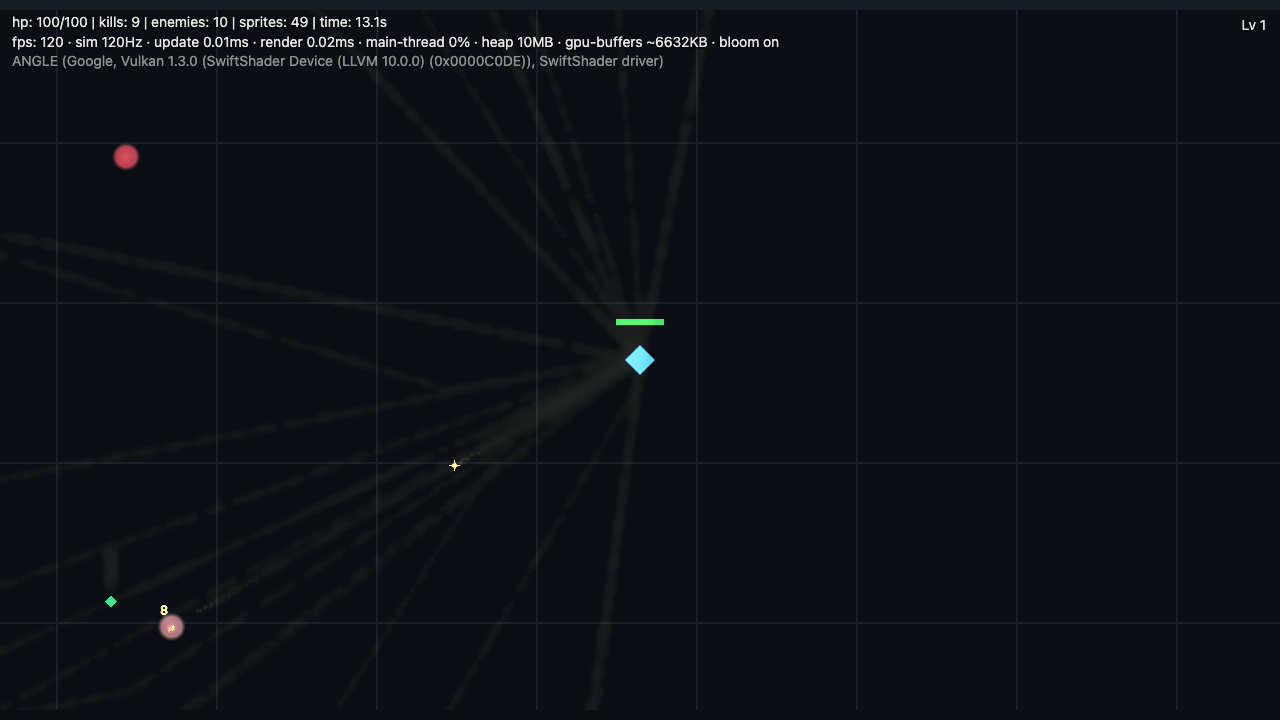
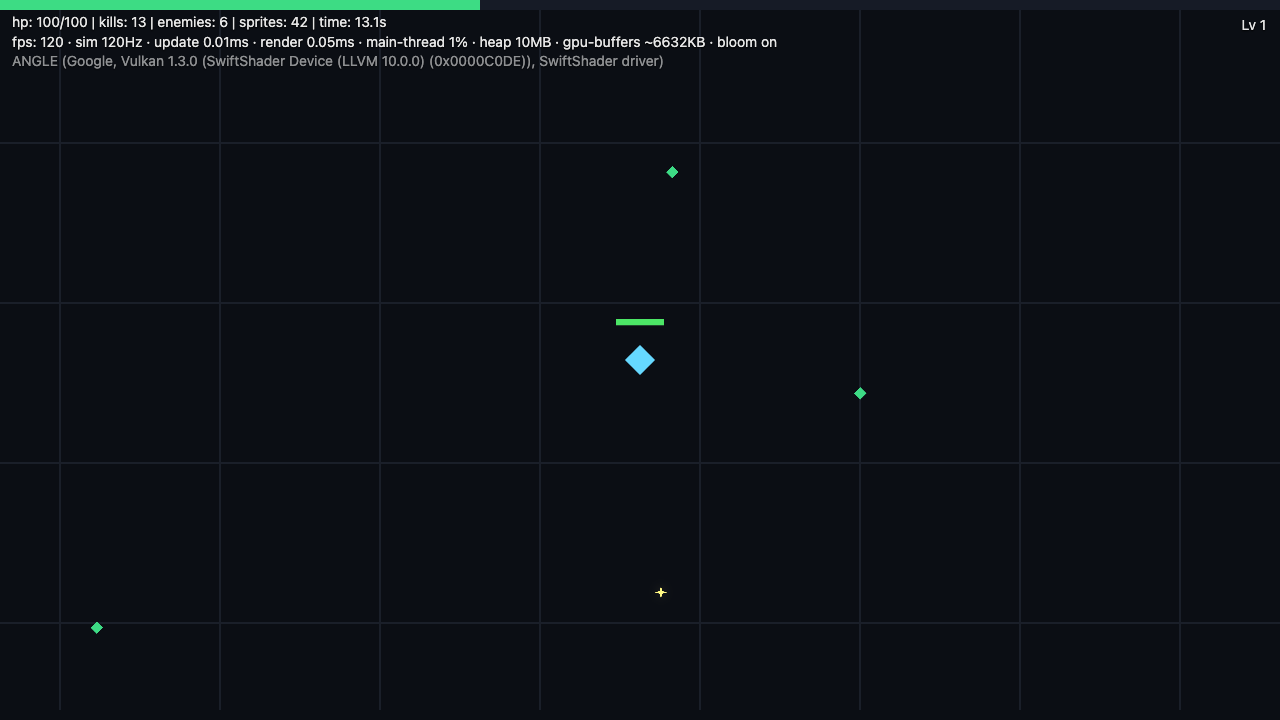
Milestone 3: fix bloom feedback accumulation, benchmark harness with naive-vs-optimized report

Changed region(s): [[0.0, 0.0, 0.5938, 0.0917], [0.125, 0.825, 0.1562, 0.8861], [0.0938, 0.1833, 0.125, 0.2444]]

diff --git a/src/engine/renderer.ts b/src/engine/renderer.ts
@@ -183,6 +183,7 @@ export class Renderer {
   private uResolution: WebGLUniformLocation;
   private uCamera: WebGLUniformLocation;
   private postVao: WebGLVertexArrayObject | null = null;
+  private postBuffer: WebGLBuffer | null = null;
   private brightProgram: WebGLProgram | null = null;
   private blurProgram: WebGLProgram | null = null;
   private compositeProgram: WebGLProgram | null = null;
@@ -271,6 +272,7 @@ export class Renderer {
       this.postVao = gl.createVertexArray()!;
       gl.bindVertexArray(this.postVao);
       const quad = gl.createBuffer()!;
+      this.postBuffer = quad;
       gl.bindBuffer(gl.ARRAY_BUFFER, quad);
       gl.bufferData(
         gl.ARRAY_BUFFER,
@@ -432,7 +434,11 @@ export class Renderer {
     const a = this.bloomA!;
     const b = this.bloomB!;
 
+    gl.disable(gl.BLEND);
+
     gl.bindVertexArray(this.postVao);
+    gl.bindBuffer(gl.ARRAY_BUFFER, this.postBuffer);
+    gl.vertexAttribPointer(0, 2, gl.FLOAT, false, 0, 0);
     gl.activeTexture(gl.TEXTURE0);
 
     gl.bindFramebuffer(gl.FRAMEBUFFER, a.fbo);
@@ -474,6 +480,7 @@ export class Renderer {
     gl.activeTexture(gl.TEXTURE0);
     gl.bindTexture(gl.TEXTURE_2D, null);
     gl.bindVertexArray(null);
+    gl.enable(gl.BLEND);
   }
 
   get spriteCount() {

diff --git a/README.md b/README.md
@@ -8,13 +8,22 @@ A Vampire Survivors-style horde survival game built with TypeScript + raw WebGL2
 
 ## Features
 
-- **Single-draw-call rendering** — all sprites (player, enemies, projectiles, grid, UI bars) batched into one `drawArraysInstanced` call via WebGL2
+- **Single-draw-call rendering** — all sprites batched into one `drawArraysInstanced` call via WebGL2
+- **Procedural texture atlas** — shapes + digit font generated at runtime; per-instance UVs and hit-flash in the shader
+- **Bloom post-processing** — bright-pass + separable gaussian blur + additive composite (FBO ping-pong)
+- **Spatial hash collision** — uniform grid neighbor queries replace O(n²) pairwise checks
+- **Object pooling** — enemies, projectiles, gems, particles, damage numbers all recycled (near-zero GC churn)
+- **Game feel** — particles, floating damage numbers, screen shake, hit-stop on elite kills
 - **Fixed 120Hz simulation** — accumulator-based timestep decoupled from render rate; identical gameplay on any display, with a live FPS counter in the HUD
-- **Escalating horde** — spawn interval decays from 0.7s to 0.07s; three enemy archetypes (crawler, runner, brute) with distinct speed/size/HP
-- **Auto-fire combat** — nearest-target bolt weapon, contact damage, HP bar, death → game over → instant retry
-- **Content-as-data** — enemies and weapons are pure JSON in `src/data/`, no engine knowledge needed to add more
-- **Zero-dependency game code** — no engine, no framework; TypeScript straight to WebGL2 (~10KB gzipped)
+- **Escalating horde** — 12-wave timeline over 10 minutes, 16 enemy types, Hive Tyrant boss at 10:00
+- **Roguelike draft** — level up → pick 1 of 3 cards: new weapon (4 mechanics: projectile/aura/orbit/nova), weapon upgrade, or stat boost
+- **Content-as-data** — enemies, weapons, waves are pure JSON in `src/data/`, no engine knowledge needed to add more
+- **Zero-dependency game code** — no engine, no framework; TypeScript straight to WebGL2 (~12KB gzipped)
 - **Live perf overlay** — fps, update/render ms, main-thread busy %, JS heap, GPU model, GPU buffer footprint. The Electron build additionally shows real CPU% and per-process RAM via `app.getAppMetrics()` (browsers don't expose true CPU/GPU/VRAM counters to web pages)
+
+## Benchmark
+
+`npm run benchmark` stress-tests naive (per-sprite draw calls, O(n²) collision) vs optimized (instancing, spatial hash, pooling) at 500–10,000 enemies and writes `docs/benchmark.md`. The `naive-renderer` branch preserves the pre-optimization code for the grading comparison.
 
 ## Screenshots
 
@@ -92,11 +101,14 @@ The codebase is split so each member owns a separable area:
 - [x] Game loop, input, camera-follow, basic enemy spawning/seeking
 - [x] Auto-firing weapons driven by `src/data/weapons.json`
 - [x] HUD + menus
-- [ ] Spatial hash grid for collision (naive O(n²) dies ~1k enemies — this is the CG talking point)
+- [x] Spatial hash grid for collision
 - [x] Multiple simultaneous weapons + upgrades
 - [x] XP gems, leveling, 3-card upgrade draft
-- [ ] Particle system + damage numbers
+- [x] Particle system + damage numbers
 - [x] One boss wave at 10 minutes
+- [x] Bloom post-processing + benchmark harness (`docs/benchmark.md`)
+- [ ] Sound effects + music
+- [ ] Title/pause polish, game-over stats screen
 
 **Explicitly out of scope:** meta-progression saves, multiple stages/characters, online anything.
 

diff --git a/TODO.md b/TODO.md
@@ -24,15 +24,15 @@ Status: `todo` → `doing` → `done`. Owner key: **M1** engine core, **M2** con
 
 ## Milestone 3 — CG showcase (the grading material)
 
-- [ ] Spatial hash grid collision (replaces naive O(n²)) (M1)
-- [ ] Object pooling for enemies/projectiles/particles (M1)
-- [ ] Sprite atlas + textured quads (replace colored squares) (M1)
-- [ ] Particle system: hit sparks, death bursts, level-up flash (M3)
-- [ ] Damage numbers + hit flashes (M3)
-- [ ] Screen shake + hit-stop on big kills (M3)
-- [ ] Post-processing: bloom/glow pass (M1)
-- [ ] `naive-renderer` branch preserved for before/after benchmark (M1)
-- [ ] Frame-time benchmark: naive vs instanced+spatial-hash, graph for report (M1)
+- [x] Spatial hash grid collision (replaces naive O(n²)) (M1)
+- [x] Object pooling for enemies/projectiles/particles (M1)
+- [x] Sprite atlas + textured quads (procedural runtime atlas: shapes + digit font) (M1)
+- [x] Particle system: hit sparks, death bursts, level-up flash (M3)
+- [x] Damage numbers + hit flashes (M3)
+- [x] Screen shake + hit-stop on big kills (M3)
+- [x] Post-processing: bloom/glow pass (M1)
+- [x] `naive-renderer` branch preserved for before/after benchmark (M1)
+- [x] Frame-time benchmark: naive vs instanced+spatial-hash, graph for report (M1) — see `docs/benchmark.md`
 
 ## Milestone 4 — Polish & ship
 

diff --git a/docs/benchmark.md b/docs/benchmark.md
@@ -1,0 +1,22 @@
+# Benchmark: naive vs optimized renderer + collision
+
+Measured with `npm run benchmark` (headless Chromium, 1280x720, 8s samples, god-mode stress spawns).
+
+> Note: headless Chromium renders via SwiftShader (software GL), so absolute FPS is CPU-bound.
+> On real GPUs the optimized path holds much higher framerates — the meaningful column is the
+> naive-vs-optimized ratio, especially update ms (collision/separation) which is GPU-independent.
+> Update ms at low FPS also includes fixed-timestep catch-up ticks (120Hz accumulator).
+
+| Mode      | Enemies | FPS | Update ms | Render ms |
+| --------- | ------- | --- | --------- | --------- |
+| naive     | 500     | 39  | 1.69      | 0.16      |
+| naive     | 2000    | 3   | 261.72    | 0.58      |
+| naive     | 5000    | 1   | 1652.16   | 1.24      |
+| naive     | 10000   | 0   | 5800.7    | 1.67      |
+| optimized | 500     | 70  | 0.52      | 0.07      |
+| optimized | 2000    | 22  | 9.15      | 0.18      |
+| optimized | 5000    | 5   | 148.67    | 0.32      |
+| optimized | 10000   | 2   | 421.98    | 0.51      |
+
+- **naive**: one draw call per sprite, O(n²) collision and separation
+- **optimized**: single instanced draw call, spatial-hash collision, pooled entities, bloom enabled
